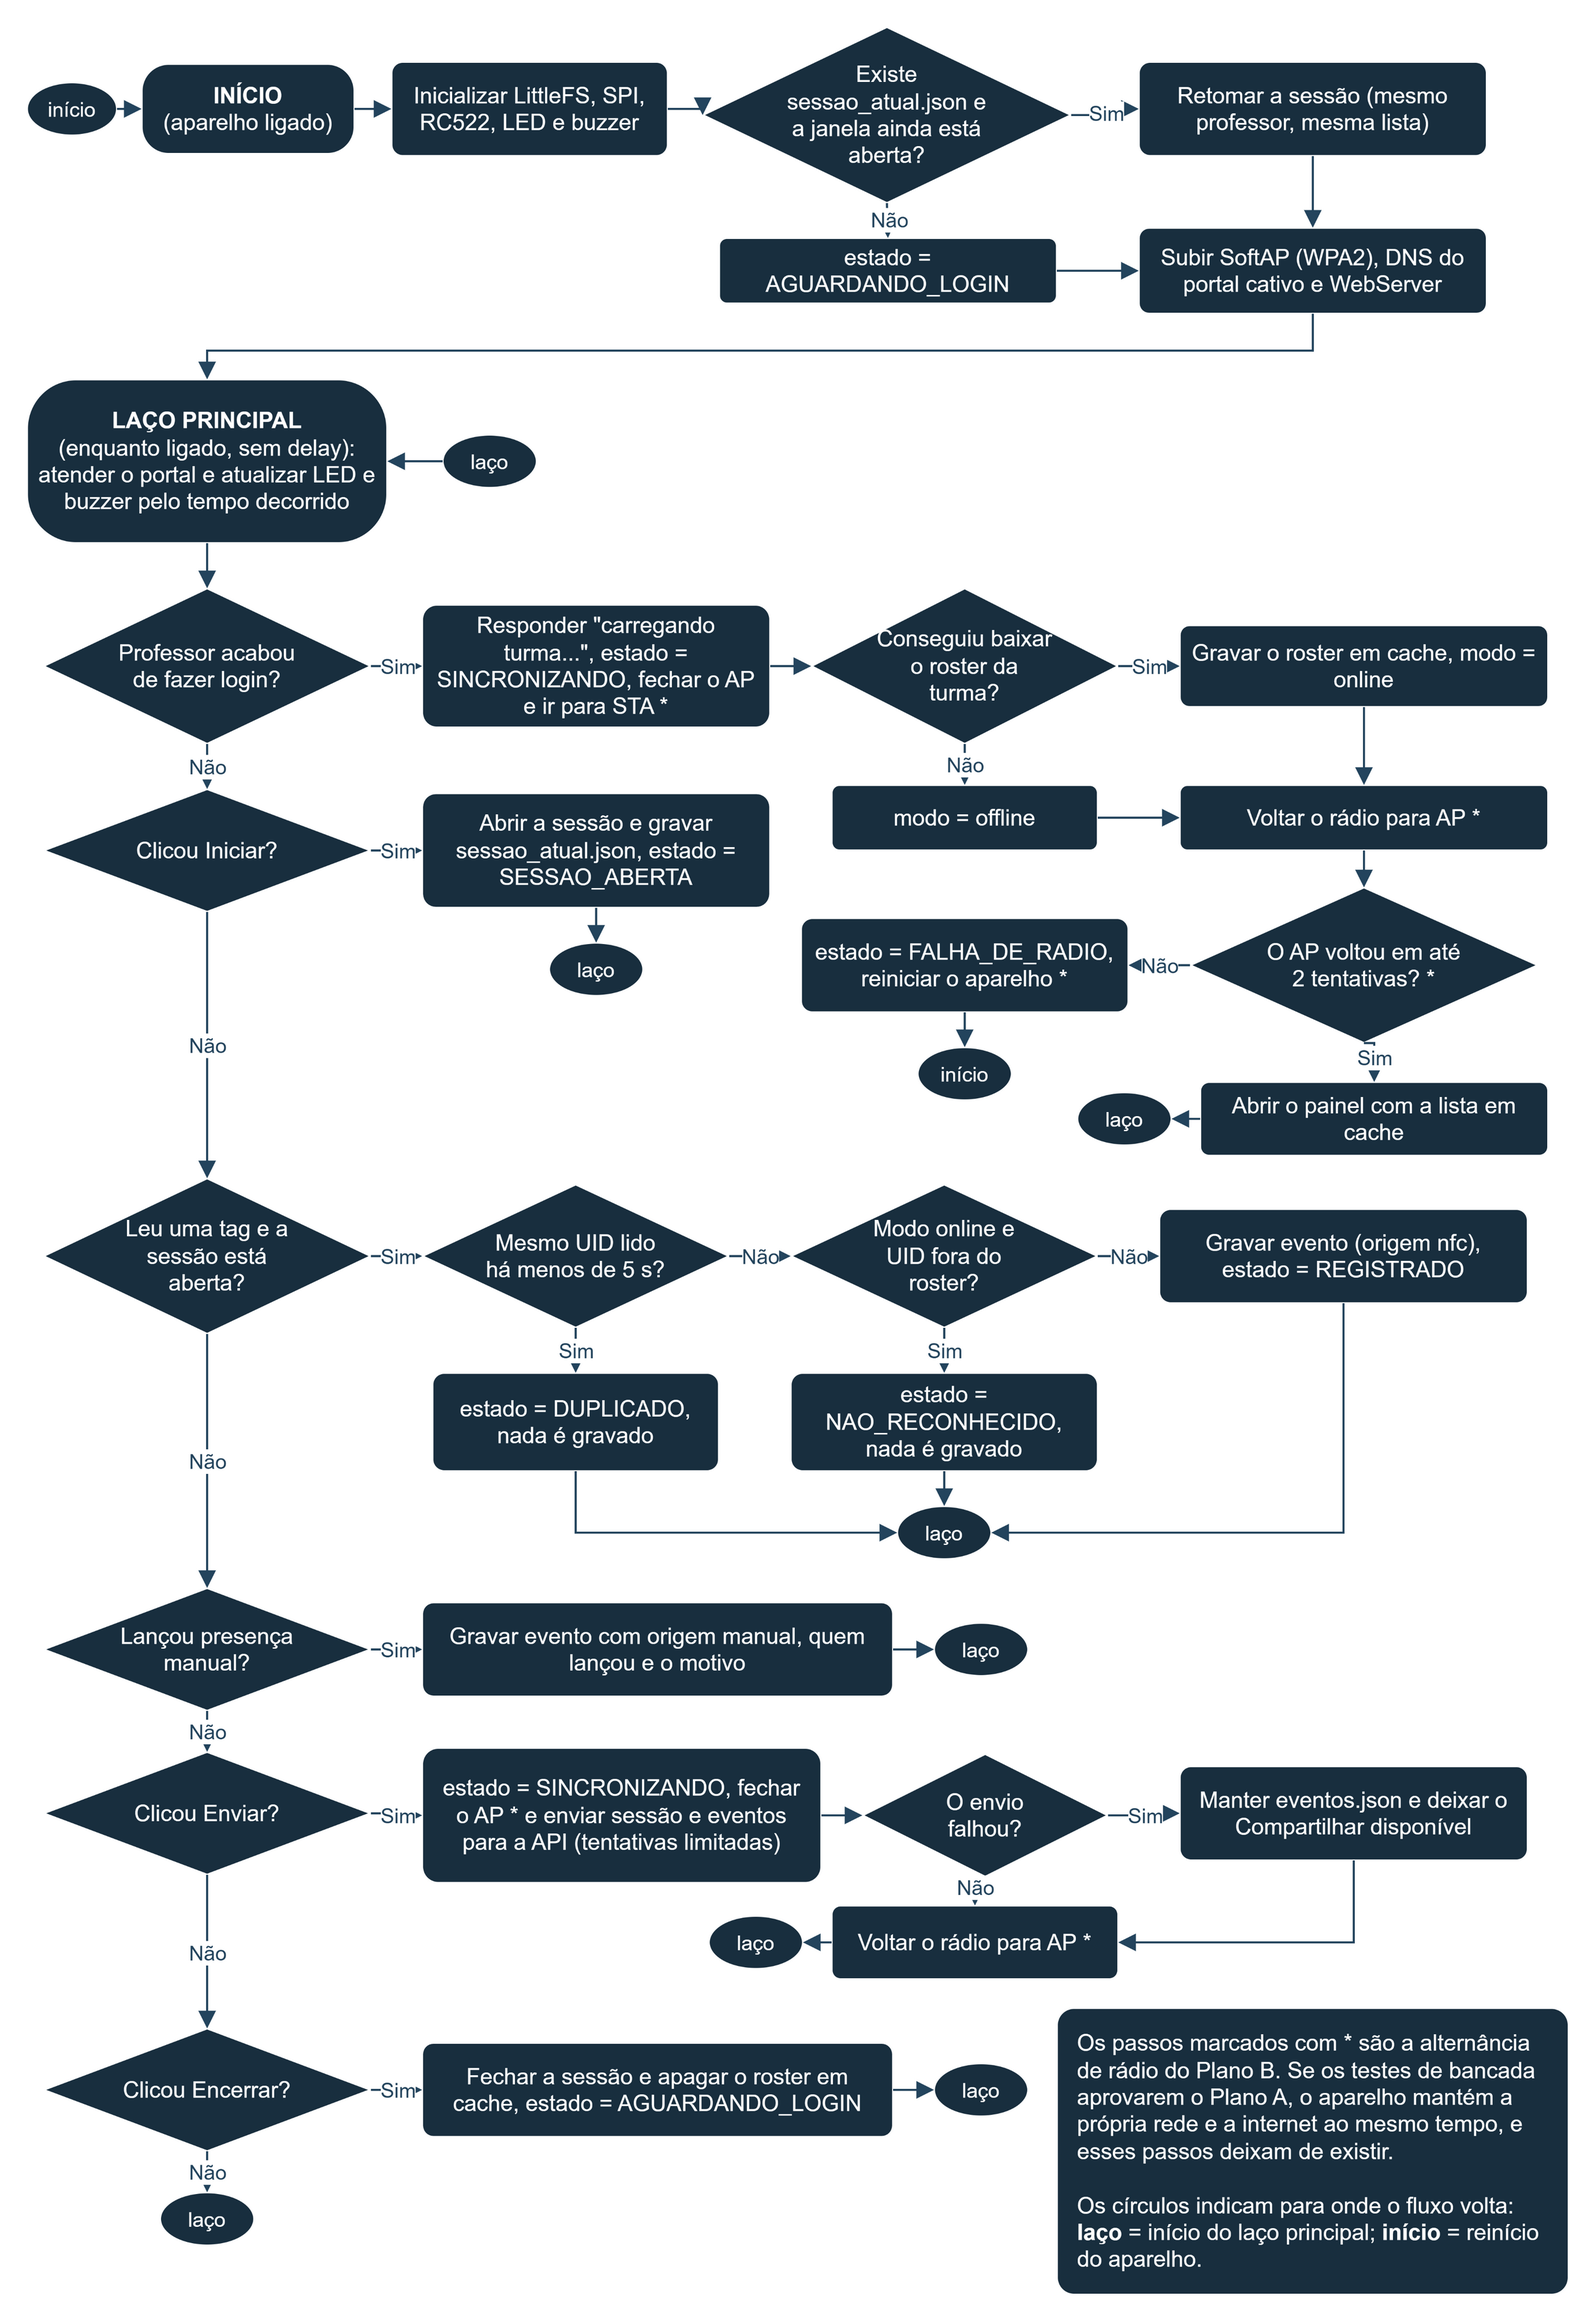
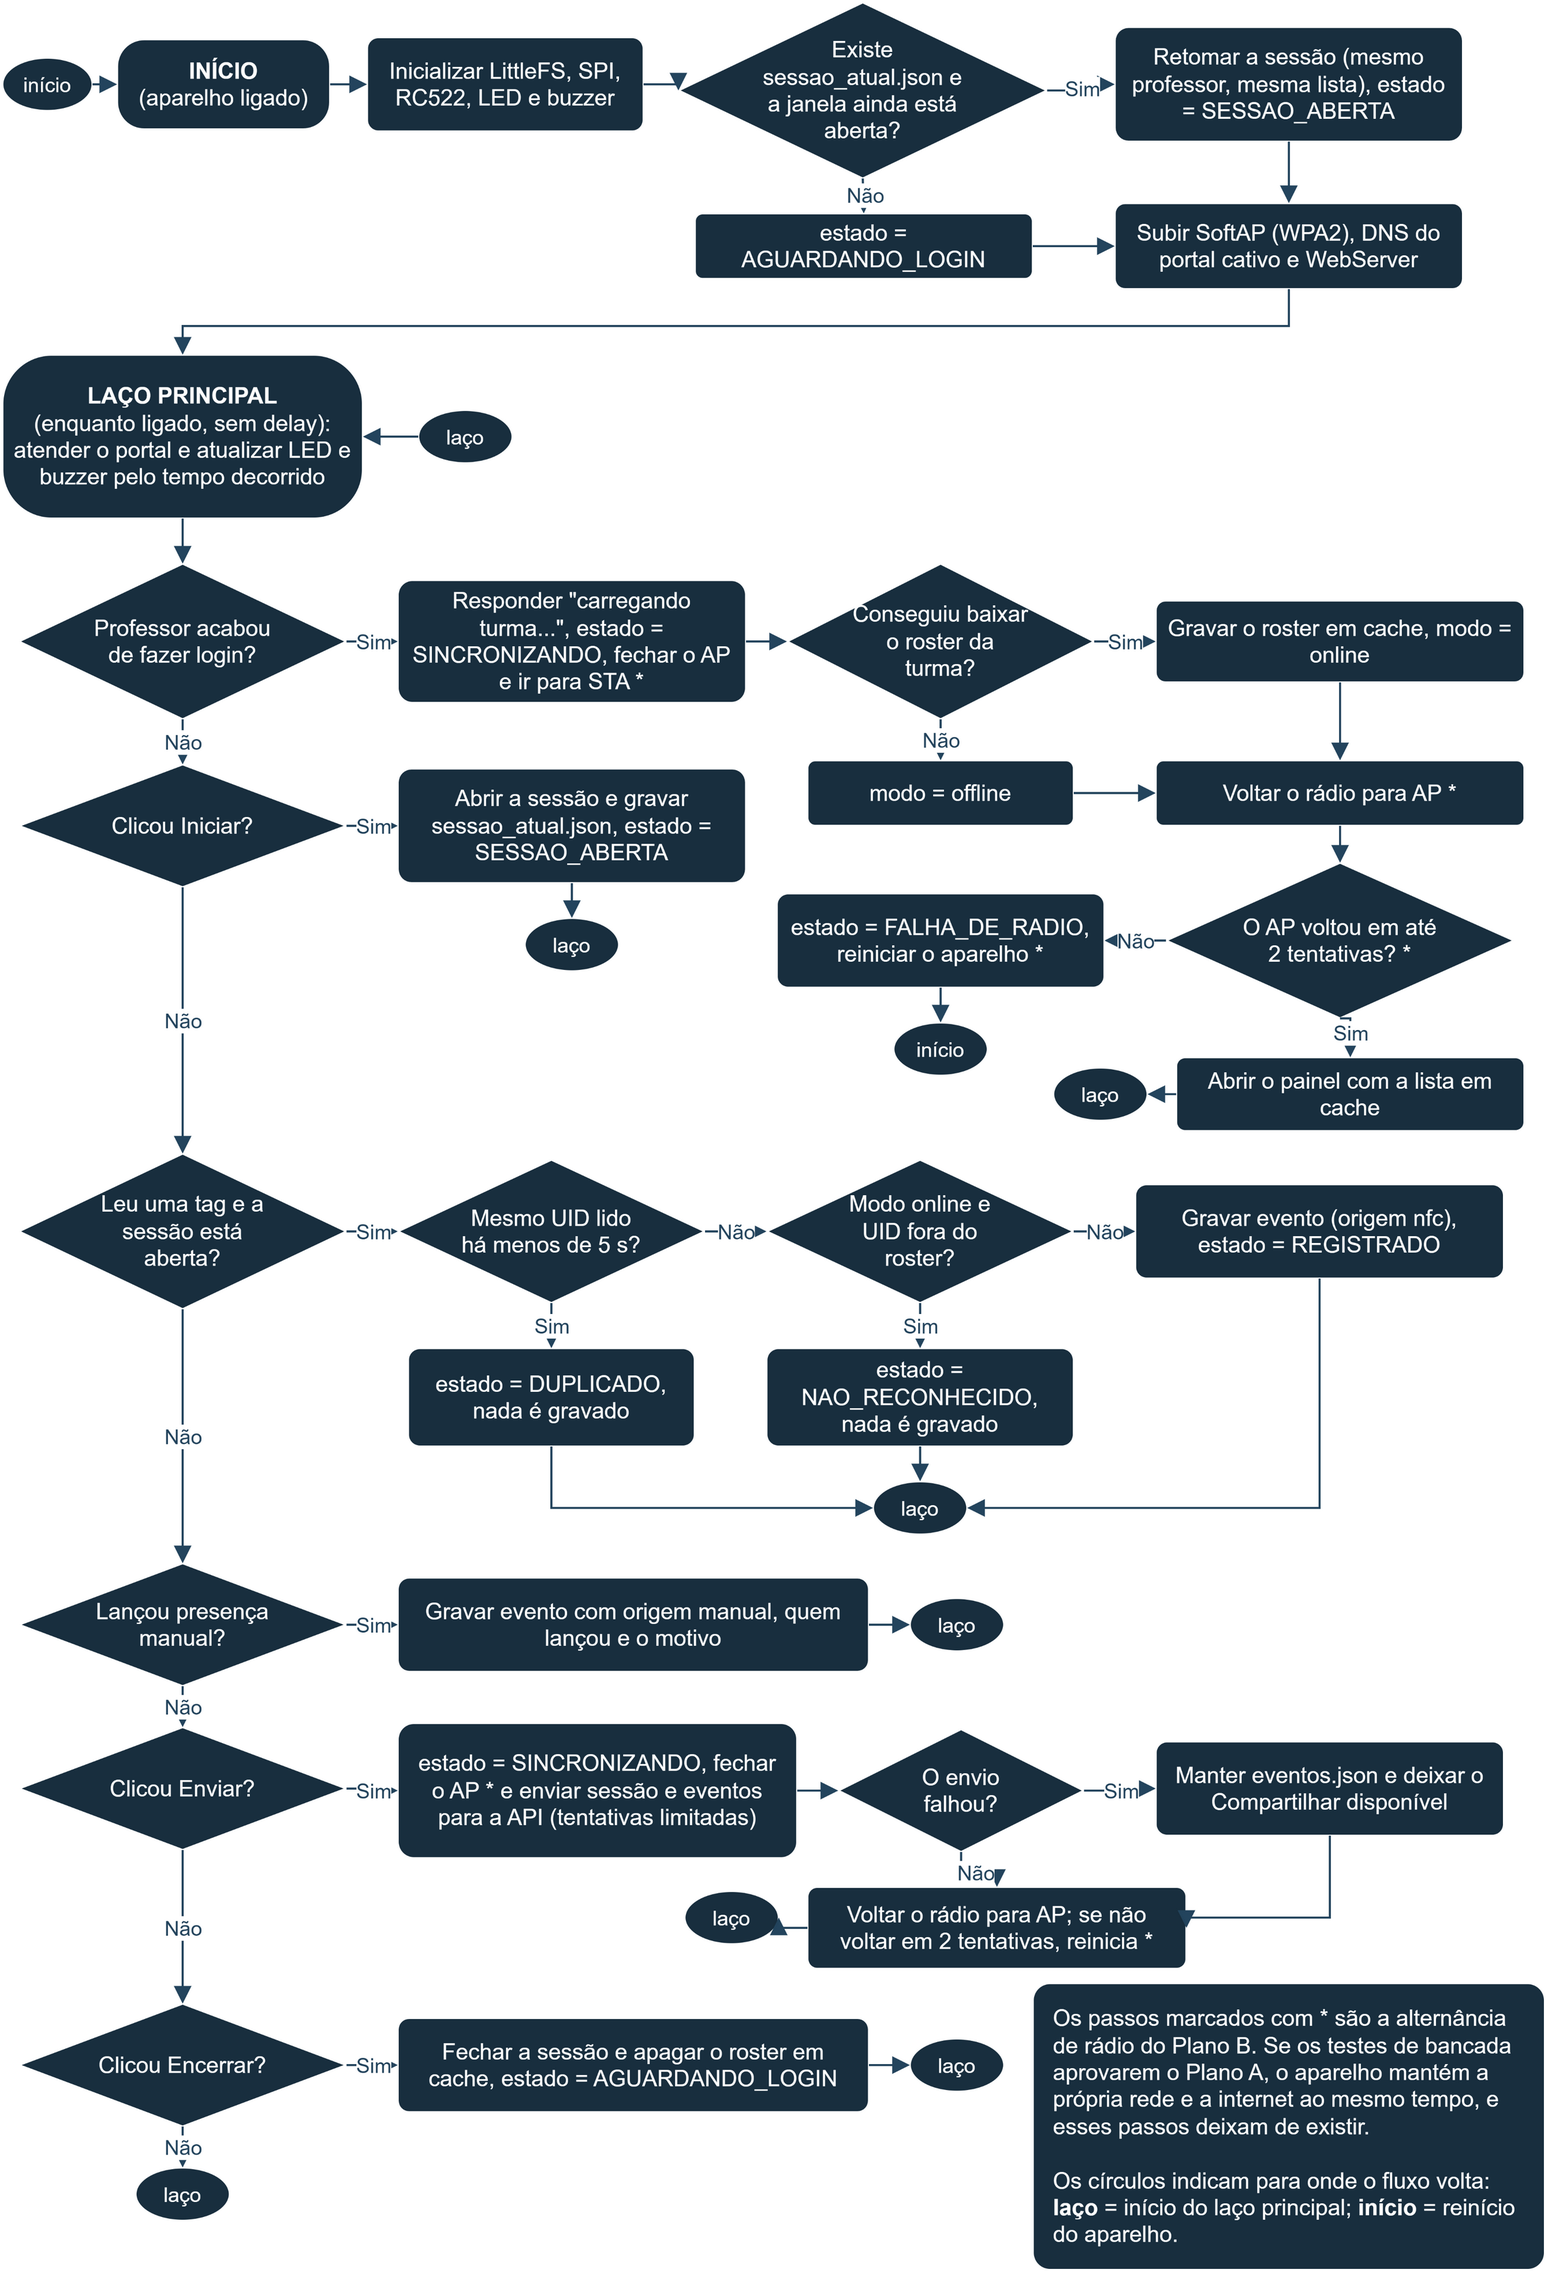
Fluxograma: as duas lacunas do 5 no texto das caixas, e a divergencia declarada na Entrega 04
Muda so o texto de duas caixas, sem redesenho: a volta do radio depois do
Enviar diz que reinicia se a rede nao voltar em duas tentativas, e a sessao
retomada no boot diz o estado. O PNG e reexportado. A transcricao da
Entrega 04 declara ao pe que o fluxograma entregue nao tinha essas duas
linhas, e o PDF arquivado continua sendo o que o professor recebeu.

diff --git a/docs/entrega-04.md b/docs/entrega-04.md
@@ -147,3 +147,7 @@ Registrado porque o texto integral está no rascunho e na spec, e parte do que s
 - **§3** — a fonte de 5 V na tomada, que alimenta o conjunto; e as observações pino a pino da spec §4.1: o GPIO 5 como pino de *strapping*, os resistores de 220 Ω do LED e a ordem de checagem do buzzer antes de qualquer transistor.
 - **§5** — duas ações do fluxograma que não couberam nas 22 linhas: abrir o painel com a lista em cache depois do login e abrir a sessão no Iniciar, que o estado `SESSAO_ABERTA` deixa implícita.
 - **§6** — a política de teste da spec §8: por que não há teste automatizado, o log serial como instrumento de medição, quem roda cada teste e a calibração dos tempos como parte do teste.
+
+## Divergência declarada depois da entrega (13/09)
+
+O fluxograma e o pseudocódigo da spec ganharam duas linhas que o documento entregue não tem, ambas alinhamento ao R15 e ao R16, sem decisão nova: a volta do rádio depois do Enviar passa pela mesma checagem de duas tentativas do login, e a sessão retomada no boot fica em `SESSAO_ABERTA`. O PDF arquivado em `entrega-04.pdf` mostra o fluxograma como foi entregue; `fluxograma-logica.png` já traz a versão corrigida.
